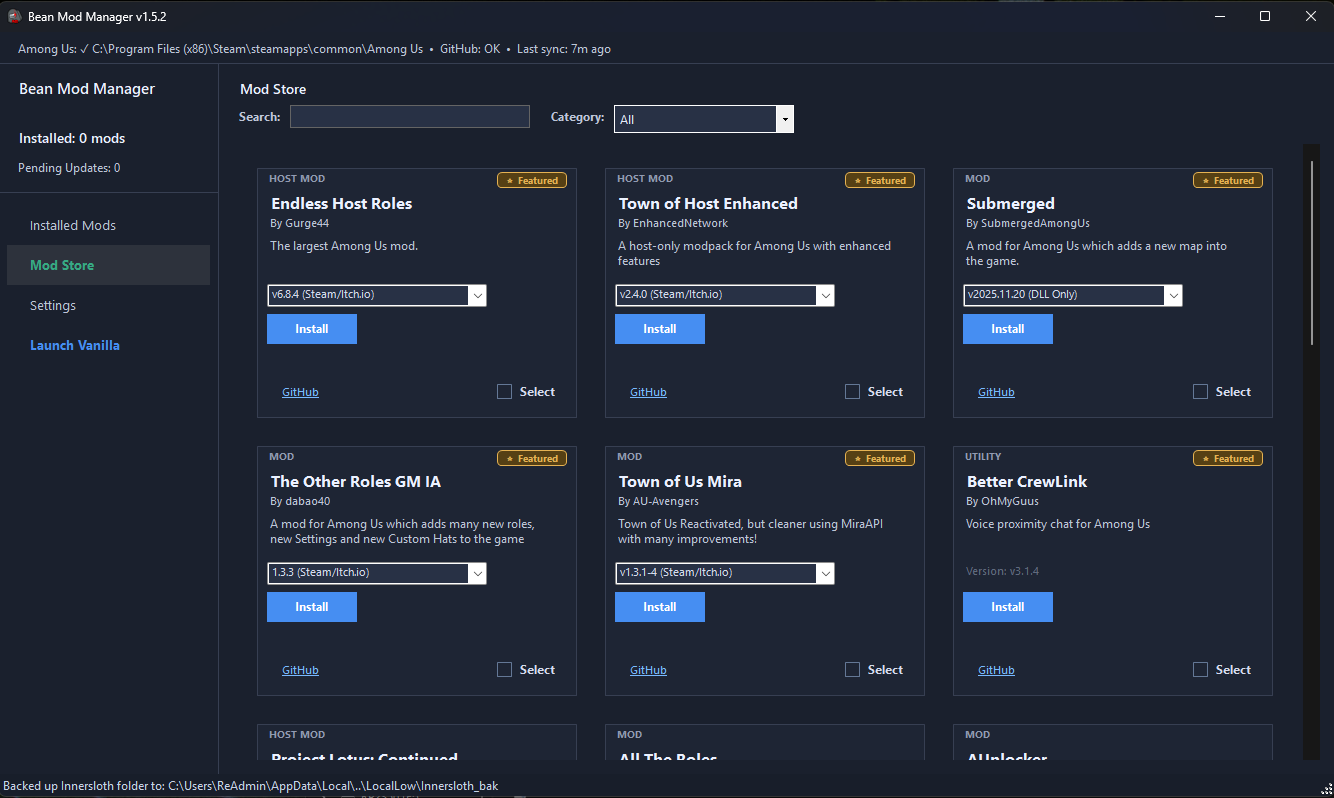
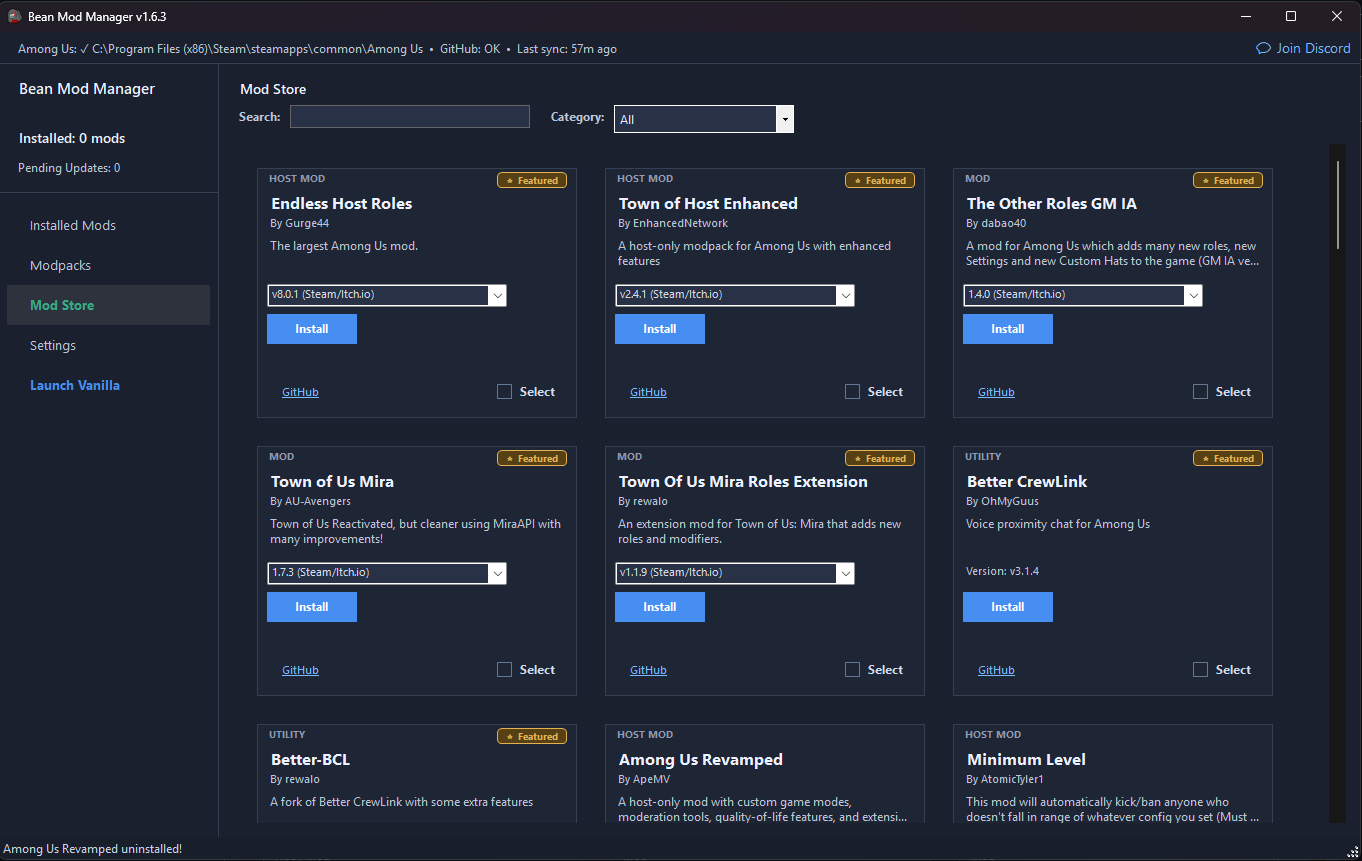
Update Screenshots & README.md

diff --git a/README.md b/README.md
@@ -13,22 +13,42 @@
 <h1 align="center">Bean Mod Manager</h1>
 
 <p align="center">
-A comprehensive mod manager for <strong>Among Us</strong>, built with Windows Forms. Easily install, manage, and switch between 50+ mods including TOHE, Town of Us Mira, Better CrewLink, TOR, StellarRoles, and many more without hassle.
+  A straightforward mod manager for <strong>Among Us</strong> on Windows.<br>
+  Install, organize, update, and switch between 50+ mods from one place.
 </p>
 
 <p align="center">
-  <img src="https://raw.githubusercontent.com/rewalo/BeanModManager/refs/heads/master/Images/Screenshot.png" width="80%" />
+  <strong><a href="https://github.com/rewalo/BeanModManager/releases/latest">Download</a></strong>
+  &nbsp;&middot;&nbsp;
+  <a href="https://discord.gg/2V6Vn4KCRf">Discord</a>
+  &nbsp;&middot;&nbsp;
+  <a href="https://github.com/rewalo/BeanModManager/issues">Report an issue</a>
 </p>
 
----
+<p align="center">
+  <a href="Images/Screenshot.png">
+    <img src="Images/Screenshot.png" alt="Bean Mod Manager mod store" width="88%">
+  </a>
+</p>
 
-## Support & Community
+<table>
+  <tr>
+    <td width="33%" align="center">
+      <a href="Images/Screenshot_1.png"><img src="Images/Screenshot_1.png" alt="Installed mods view" width="100%"></a>
+      <sub><strong>Installed mods</strong></sub>
+    </td>
+    <td width="33%" align="center">
+      <a href="Images/Screenshot_3.png"><img src="Images/Screenshot_3.png" alt="Modpacks view" width="100%"></a>
+      <sub><strong>Modpacks</strong></sub>
+    </td>
+    <td width="33%" align="center">
+      <a href="Images/Screenshot_2.png"><img src="Images/Screenshot_2.png" alt="Settings view" width="100%"></a>
+      <sub><strong>Settings</strong></sub>
+    </td>
+  </tr>
+</table>
 
-Need help, have questions, or want to connect with other users? Join our Discord server:
-
-**[💬 Join Discord](https://discord.gg/2V6Vn4KCRf)**
-
----
+<p align="center"><sub>Click any screenshot to view it at full size.</sub></p>
 
 ## Features
 
